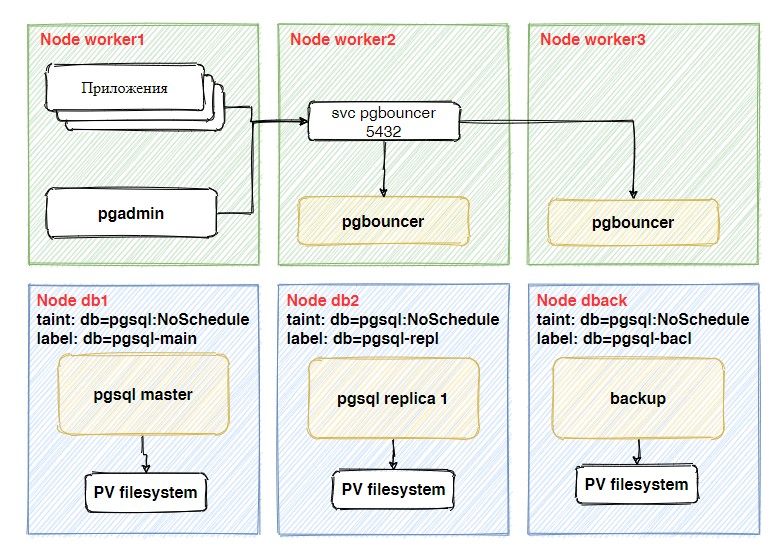
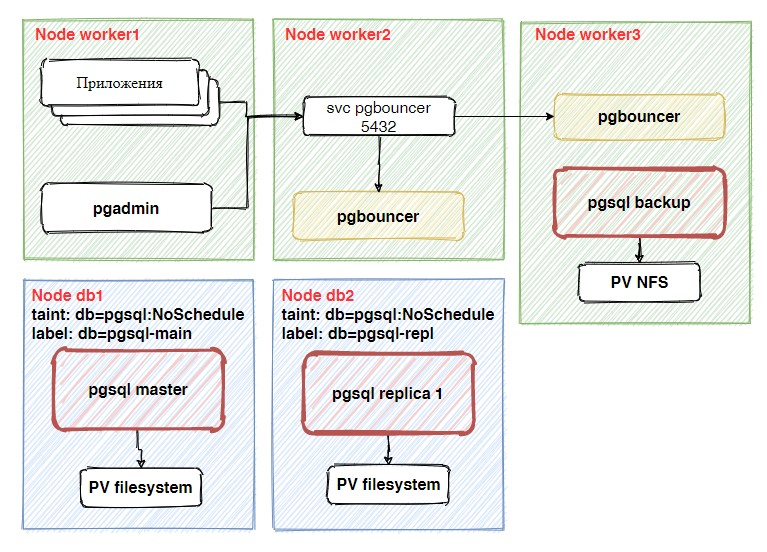
move to 2 db nodes

diff --git a/base/Crunchy PostgreSQL Operator/README.md b/base/Crunchy PostgreSQL Operator/README.md
@@ -12,10 +12,8 @@
 
     kubectl taint nodes db1.kryukov.local db=pgsql:NoSchedule
     kubectl taint nodes db2.kryukov.local db=pgsql:NoSchedule
-    kubectl taint nodes dback.kryukov.local db=pgsql:NoSchedule
     kubectl label nodes db1.kryukov.local db=pgsql-main
     kubectl label nodes db2.kryukov.local db=pgsql-repl
-    kubectl label nodes dback.kryukov.local db=pgsql-back
 
 Создаём директории для локальных PV:
 
@@ -103,8 +101,8 @@ sql сервера.
 
 Бекап подключает nfs PV и размещается на worker node. 
 
-## Видео.
+[comment]: <> (## Видео.)
 
-_Премьера 7 Мая 2021_
+[comment]: <> (_Премьера 7 Мая 2021_)
 
-[<img src="https://img.youtube.com/vi/PWb4ClEx3qo/maxresdefault.jpg" width="50%">](https://youtu.be/PWb4ClEx3qo)
+[comment]: <> ([<img src="https://img.youtube.com/vi/PWb4ClEx3qo/maxresdefault.jpg" width="50%">]&#40;https://youtu.be/PWb4ClEx3qo&#41;)
